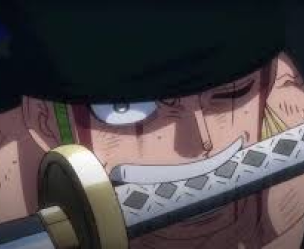
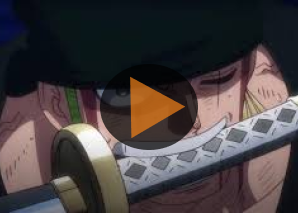
update

diff --git a/midterm/style.css b/midterm/style.css
@@ -4,6 +4,7 @@
 }
 body{
   background-color: black;
+  font-family: "Work Sans",sans-serif;
 }
 #wrapper{
   max-width: 1200px;
@@ -37,11 +38,25 @@ p {
   padding: 1em;
 }
 
+/* linking*/
+
+a{
+  color: black;
+}
+a:hover{
+  color:orange;
+  text-decoration: underline;
+}
+a:active{
+  color: green;
+  text-decoration: underline;
+}
+
 .paragrahleft{
   width: 40%;
   float: left;
-  margin-top: 15em;
-  margin-left: 2%;
+  margin-top: 13em;
+  margin-left: 2.5%;
 }
 
 .paragrahright{
@@ -87,10 +102,9 @@ footer{
   margin:0.5em 0.5em 0 0.5em;
 }
 
-.cardplay{
-  width: 50px;
-  margin-top:-100px;
-}
+
+
+
 
 .movies{
   display:flex;

diff --git a/midterm/episodes.html b/midterm/episodes.html
@@ -27,7 +27,6 @@
     <div class="episodes">
       <div class="card">
         <img src="images/1.png" alt="Image 1">
-        <img src="images/play.svg" alt="play" class="cardplay">
         <h3>The Land of Wano! To the Samurai Country where Cherry Blossoms Flutter!</h3>
         <p>A mysterious country, a rampaging slasher, ancient samurai rituals of seppuku - and Zoro in the crosshairs! When a street assault occurs, all signs point to Zoro! Meanwhile, Luffy finally arrives at the Land of Wano but all his friends are nowhere to be found.</p>
       </div>

diff --git a/midterm/index.html b/midterm/index.html
@@ -38,7 +38,6 @@
     </header>
     <main>
       <div class="paragrahleft">
-
           <p>Average Raiting: 4.9(113K) | 2,649 Reviews</p>
           <p>Monkey. D. Luffy refuses to let anyone or anything stand in the way of his quest to become the king of all pirates. With a course charted for the treacherous waters of the Grand Line and beyond, this is one captain who'll never give up until he's claimed the greatest treasure on Earth: the Legendary One Piece!</p>
         </div>
